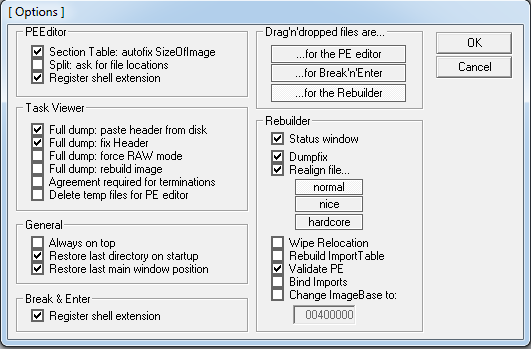
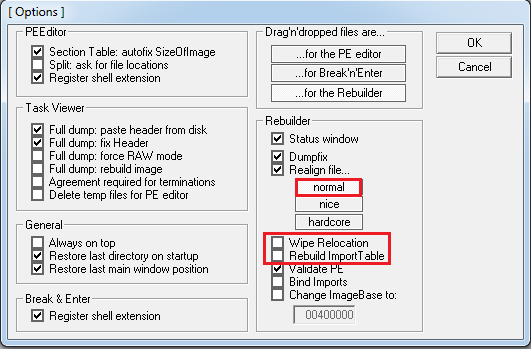
First Blog

Changed region(s): [[0.4821, 0.659, 0.7533, 0.7736], [0.5424, 0.4871, 0.693, 0.5731]]

diff --git a/_posts/2022-04-02-Emotet-unpacking.md b/_posts/2022-04-02-Emotet-unpacking.md
@@ -1,5 +1,5 @@
 ---
-title: "Emotet Analysis Part 1: Unpacking"
+title: "EmotetAnalysis Part 1: Unpacking"
 author: Player-V
 date: 2022-04-02 02:26:00 -0500
 categories: [Reverse engeneering, Malware Analysis]
@@ -9,97 +9,99 @@ tags: [unpacking, analysis]
 
 ## Introduction
 
-That's will be my first post in the blog, i will make a series of post about Emotet malware, we're going to digg deep in emotet. The first part is about unpacking the malware fire up your virtual machine and let's start.
+That's will be my first post in the blog, i will make a series of posts about [Emotet](https://www.malwarebytes.com/emotet).
+[Emotet](https://www.malwarebytes.com/emotet) is a Trojan that is primarily spread through spam emails (malspam), we're going to digg deep in the anlysis of this Trojan,the first part is about unpacking the malware then we will try to analyse the different modules and techniques used by the malware to compromise a machine, so fire up your virtual machine and let's start.
 
 ## Triage
 
-Opening the sample in CFF explorer shows that we're dealing with 32 bit binary.
+The first thing i always do before opening a sample in IDA or Xdbg is opening the binary first in a hex editor, in my case i will use [CFF Explorer](https://ntcore.com/?page_id=388),so opening the sample in CFF explorer shows that we're dealing with 32 bit binary.
 
-![CFF-Explorer1](https://pl-v.github.io/plv//assets/Emotet-part1/Hex-View/1.PNG){: width="700" height="400" }
+![CFF-Explorer1](https://pl-v.github.io/plv//assets/[Emotet](https://www.malwarebytes.com/emotet)-part1/Hex-View/1.PNG){: width="700" height="400" }
 
-Let's check import section.
+Let's check import section,The malware use one library which is `Kernel32` that's the first sign which indicate that we're dealing with packed binary.
 
-![CFF-Explorer3](https://pl-v.github.io/plv//assets/Emotet-part1/Hex-View/3.PNG){: width="700" height="600" }
+![CFF-Explorer3](https://pl-v.github.io/plv//assets/[Emotet](https://www.malwarebytes.com/emotet)-part1/Hex-View/3.PNG){: width="700" height="600" }
 
-There is just one imported library which is Kernel32 that's the first sign which indicate that the binary could be packed, another indicator the two API functions:
+Two intersting API functions are used:
 
 1. [VirtualAlloc](https://docs.microsoft.com/en-us/windows/win32/api/memoryapi/nf-memoryapi-virtualalloc) 
 2. [VirtualProtect](https://docs.microsoft.com/en-us/windows/win32/api/memoryapi/nf-memoryapi-virtualprotect)
 
-The VirtualAlloc function allocate memory and the VirtualProtect function changes the protection on a region of committed pages in the virtual address space, most of time those two functions are used by malware during the unpacking process. Let's open the binary on Die(Detect-It-Easy) to make sure  that the malware is packed.
+The [VirtualAlloc](https://docs.microsoft.com/en-us/windows/win32/api/memoryapi/nf-memoryapi-virtualalloc) function allocate memory while the [VirtualProtect](https://docs.microsoft.com/en-us/windows/win32/api/memoryapi/nf-memoryapi-virtualprotect) function changes the protection on a region of committed pages in the virtual address space, most of time those two functions are used by malware during the unpacking process. To make sure that our sample is packed Let's open the binary on [Die(Detect-It-Easy)](https://github.com/horsicq/Detect-It-Easy).
 
-![Die1](https://pl-v.github.io/plv//assets/Emotet-part1/Die/1.PNG){: width="700" height="300" }
+![Die1](https://pl-v.github.io/plv//assets/[Emotet](https://www.malwarebytes.com/emotet)-part1/Die/1.PNG){: width="700" height="300" }
 
-The status bar says that it's 91% packed and we have a high entropy in the `.text` section, so that's a strong indication that the malware is packed and should be unpacked for further analysis.
+The status bar says that it's 91% packed and `.text` section has a high entropy,that's a strong indication that the malware is packed and we should unpack it for further analysis.
 
 
 ## IDA 
 
-Now that we're sure that our sample is packed, let's open it in IDA and find the function which is responsible for unpacking. 
+Now that we're sure that our sample is packed, let's open it in IDA and try to find the function which is responsible for unpacking. 
 
-![IDA1](https://pl-v.github.io/plv//assets/Emotet-part1/IDA/1.PNG){: width="700" height="300" }
+![IDA1](https://pl-v.github.io/plv//assets/[Emotet](https://www.malwarebytes.com/emotet)-part1/IDA/1.PNG){: width="700" height="300" }
 
 Click on `Imports` to reveal all the functions used by the binary.
 
-![IDA2](https://pl-v.github.io/plv//assets/Emotet-part1/IDA/2.PNG){: width="700" height="300" }
+![IDA2](https://pl-v.github.io/plv//assets/[Emotet](https://www.malwarebytes.com/emotet)-part1/IDA/2.PNG){: width="700" height="300" }
 
-Search for VirtualAlloc and double click on it.
+Search for [VirtualAlloc](https://docs.microsoft.com/en-us/windows/win32/api/memoryapi/nf-memoryapi-virtualalloc) and double click on it.
 
-![IDA3](https://pl-v.github.io/plv//assets/Emotet-part1/IDA/3.PNG){: width="700" height="300" }
+![IDA3](https://pl-v.github.io/plv//assets/[Emotet](https://www.malwarebytes.com/emotet)-part1/IDA/3.PNG){: width="700" height="300" }
 
-VirtualAlloc function is used two times by the same function `sub_1001AFF0`, double click on `sub_1001AFF0` and scroll down notice that the first function called after VirtualAlloc is `sub_10022C40`, so maybe we've found our unpacking function. to make sure let's open it on `Xdbg` and figure out. 
+[VirtualAlloc](https://docs.microsoft.com/en-us/windows/win32/api/memoryapi/nf-memoryapi-virtualalloc) function is used two times by the same function `sub_1001AFF0`, double click on `sub_1001AFF0` and scroll down we notice that the first function called after [VirtualAlloc](https://docs.microsoft.com/en-us/windows/win32/api/memoryapi/nf-memoryapi-virtualalloc) is `sub_10022C40`, so maybe we've found our unpacking function. to make sure let's open it on `Xdbg` and figure out. 
 
 ## Unpacking
 
-Open your `X32dbg` and paste the sample there for debugging.
+Open your `X32dbg` and paste and paste your sample to it.
 
-![XDBG1](https://pl-v.github.io/plv//assets/Emotet-part1/Xdbg/1.PNG){: width="700" height="300" }
+![XDBG1](https://pl-v.github.io/plv//assets/[Emotet](https://www.malwarebytes.com/emotet)-part1/Xdbg/1.PNG){: width="700" height="300" }
 
-Place a breakpoint on VirtualAlloc and hit run.
+Place a breakpoint on [VirtualAlloc](https://docs.microsoft.com/en-us/windows/win32/api/memoryapi/nf-memoryapi-virtualalloc) and hit run.
 
-![XDBG2](https://pl-v.github.io/plv//assets/Emotet-part1/Xdbg/2.PNG){: width="700" height="300" }
+![XDBG2](https://pl-v.github.io/plv//assets/[Emotet](https://www.malwarebytes.com/emotet)-part1/Xdbg/2.PNG){: width="700" height="300" }
 
-Xdbg will keep running untill it hit the breakpoint, then click two times on `Execute till run`. 
+Xdbg will keep running untill it hit the breakpoint, after  click two times on `Execute till run`. 
 
-![XDBG3](https://pl-v.github.io/plv//assets/Emotet-part1/Xdbg/3.PNG){: width="700" height="300" }
+![XDBG3](https://pl-v.github.io/plv//assets/[Emotet](https://www.malwarebytes.com/emotet)-part1/Xdbg/3.PNG){: width="700" height="300" }
 
-Notice that the EAX register contain the address of the allocated memory, right click on that value and click on `Follow in Dump`.
+Check the `EAX` register it contain the return adress address of the allocated memory by [VirtualAlloc](https://docs.microsoft.com/en-us/windows/win32/api/memoryapi/nf-memoryapi-virtualalloc), right click on that value and click on `Follow in Dump`.
 
-![XDBG4](https://pl-v.github.io/plv//assets/Emotet-part1/Xdbg/4.PNG){: width="700" height="300" }
+![XDBG4](https://pl-v.github.io/plv//assets/[Emotet](https://www.malwarebytes.com/emotet)-part1/Xdbg/4.PNG){: width="700" height="300" }
 
-As we said earlier that the function after VirtualAlloc is responsible for unpacking, step ovet it and keep your eyes on the dump windows.
+As we said earlier that the function after [VirtualAlloc](https://docs.microsoft.com/en-us/windows/win32/api/memoryapi/nf-memoryapi-virtualalloc) is responsible for unpacking, step over it and keep your eyes on the dump window at the bottom.
 
-![XDBG4](https://pl-v.github.io/plv//assets/Emotet-part1/Xdbg/6.PNG){: width="700" height="300" }
+![XDBG4](https://pl-v.github.io/plv//assets/[Emotet](https://www.malwarebytes.com/emotet)-part1/Xdbg/6.PNG){: width="700" height="300" }
 
 After executing `sub_10022C40` function we can finally see our unpacked malware, dump it and save it somewhere in ur machine. 
 
-![XDBG4](https://pl-v.github.io/plv//assets/Emotet-part1/Xdbg/7.PNG){: width="700" height="300" }
+![XDBG4](https://pl-v.github.io/plv//assets/[Emotet](https://www.malwarebytes.com/emotet)-part1/Xdbg/7.PNG){: width="700" height="300" }
 
 Right click on dump windows and `Follow in memory map`.
 
-![XDBG4](https://pl-v.github.io/plv//assets/Emotet-part1/Xdbg/8.PNG){: width="700" height="300" }
+![XDBG4](https://pl-v.github.io/plv//assets/[Emotet](https://www.malwarebytes.com/emotet)-part1/Xdbg/8.PNG){: width="700" height="300" }
 
-Another right click on the adress of the unpacked binary and `Dump memory to file`.
+Another right click on the address of the unpacked binary then `Dump memory to file`.
 
-![XDBG4](https://pl-v.github.io/plv//assets/Emotet-part1/Xdbg/9.PNG){: width="700" height="300" }
+![XDBG4](https://pl-v.github.io/plv//assets/[Emotet](https://www.malwarebytes.com/emotet)-part1/Xdbg/9.PNG){: width="700" height="300" }
 
-Opening the unpacked binary in `X32dbg` shows that it's missed.  
+Now that we have our sample unpacked and ready for analysis let's open it in `X32dbg`. 
 
-![XDBG4](https://pl-v.github.io/plv//assets/Emotet-part1/Xdbg/9.PNG){: width="700" height="300" }
+![XDBG4](https://pl-v.github.io/plv//assets/[Emotet](https://www.malwarebytes.com/emotet)-part1/Xdbg/9.PNG){: width="700" height="300" }
 
+It seems that our unpacked binary is missed and it should be fixed.
 ## Fixing
 
-To fix the unpacked binary there are several methods to do that, we will use `LordPE` to automate the fixing, so all we should do is to open  LordPe and click on options, then uncheck `Wipe Relocation` and `Rebuild ImportTable`, click on normal and finally ok
+To fix the unpacked binary there are several methods to do that, we will use `LordPE` to automate the fixing, so all we should do is to open LordPe and click on options, then uncheck `Wipe Relocation` and `Rebuild ImportTable` options,finally click on normal `OK`
 
-![XDBG4](https://pl-v.github.io/plv//assets/Emotet-part1/Fixing/1.PNG){: width="700" height="300" }
+![XDBG4](https://pl-v.github.io/plv//assets/[Emotet](https://www.malwarebytes.com/emotet)-part1/Fixing/1.PNG){: width="700" height="300" }
 
-Drag your unpacked sample to `LordPe` and it will fix it.
+Drag your unpacked sample to `LordPe` and it will be fixed automatically.
 
-![XDBG4](https://pl-v.github.io/plv//assets/Emotet-part1/Fixing/2.PNG){: width="700" height="300" }
+![XDBG4](https://pl-v.github.io/plv//assets/[Emotet](https://www.malwarebytes.com/emotet)-part1/Fixing/2.PNG){: width="700" height="300" }
 
-Finally open your fixed binary in `X32dbg` and notice that your it's more readble right now.
+Finally open your fixed binary in `X32dbg` and notice that it's more readble right now..
 
-![XDBG4](https://pl-v.github.io/plv//assets/Emotet-part1/Fixing/3.PNG){: width="700" height="300" }
+![XDBG4](https://pl-v.github.io/plv//assets/[Emotet](https://www.malwarebytes.com/emotet)-part1/Fixing/3.PNG){: width="700" height="300" }
 
 
 
